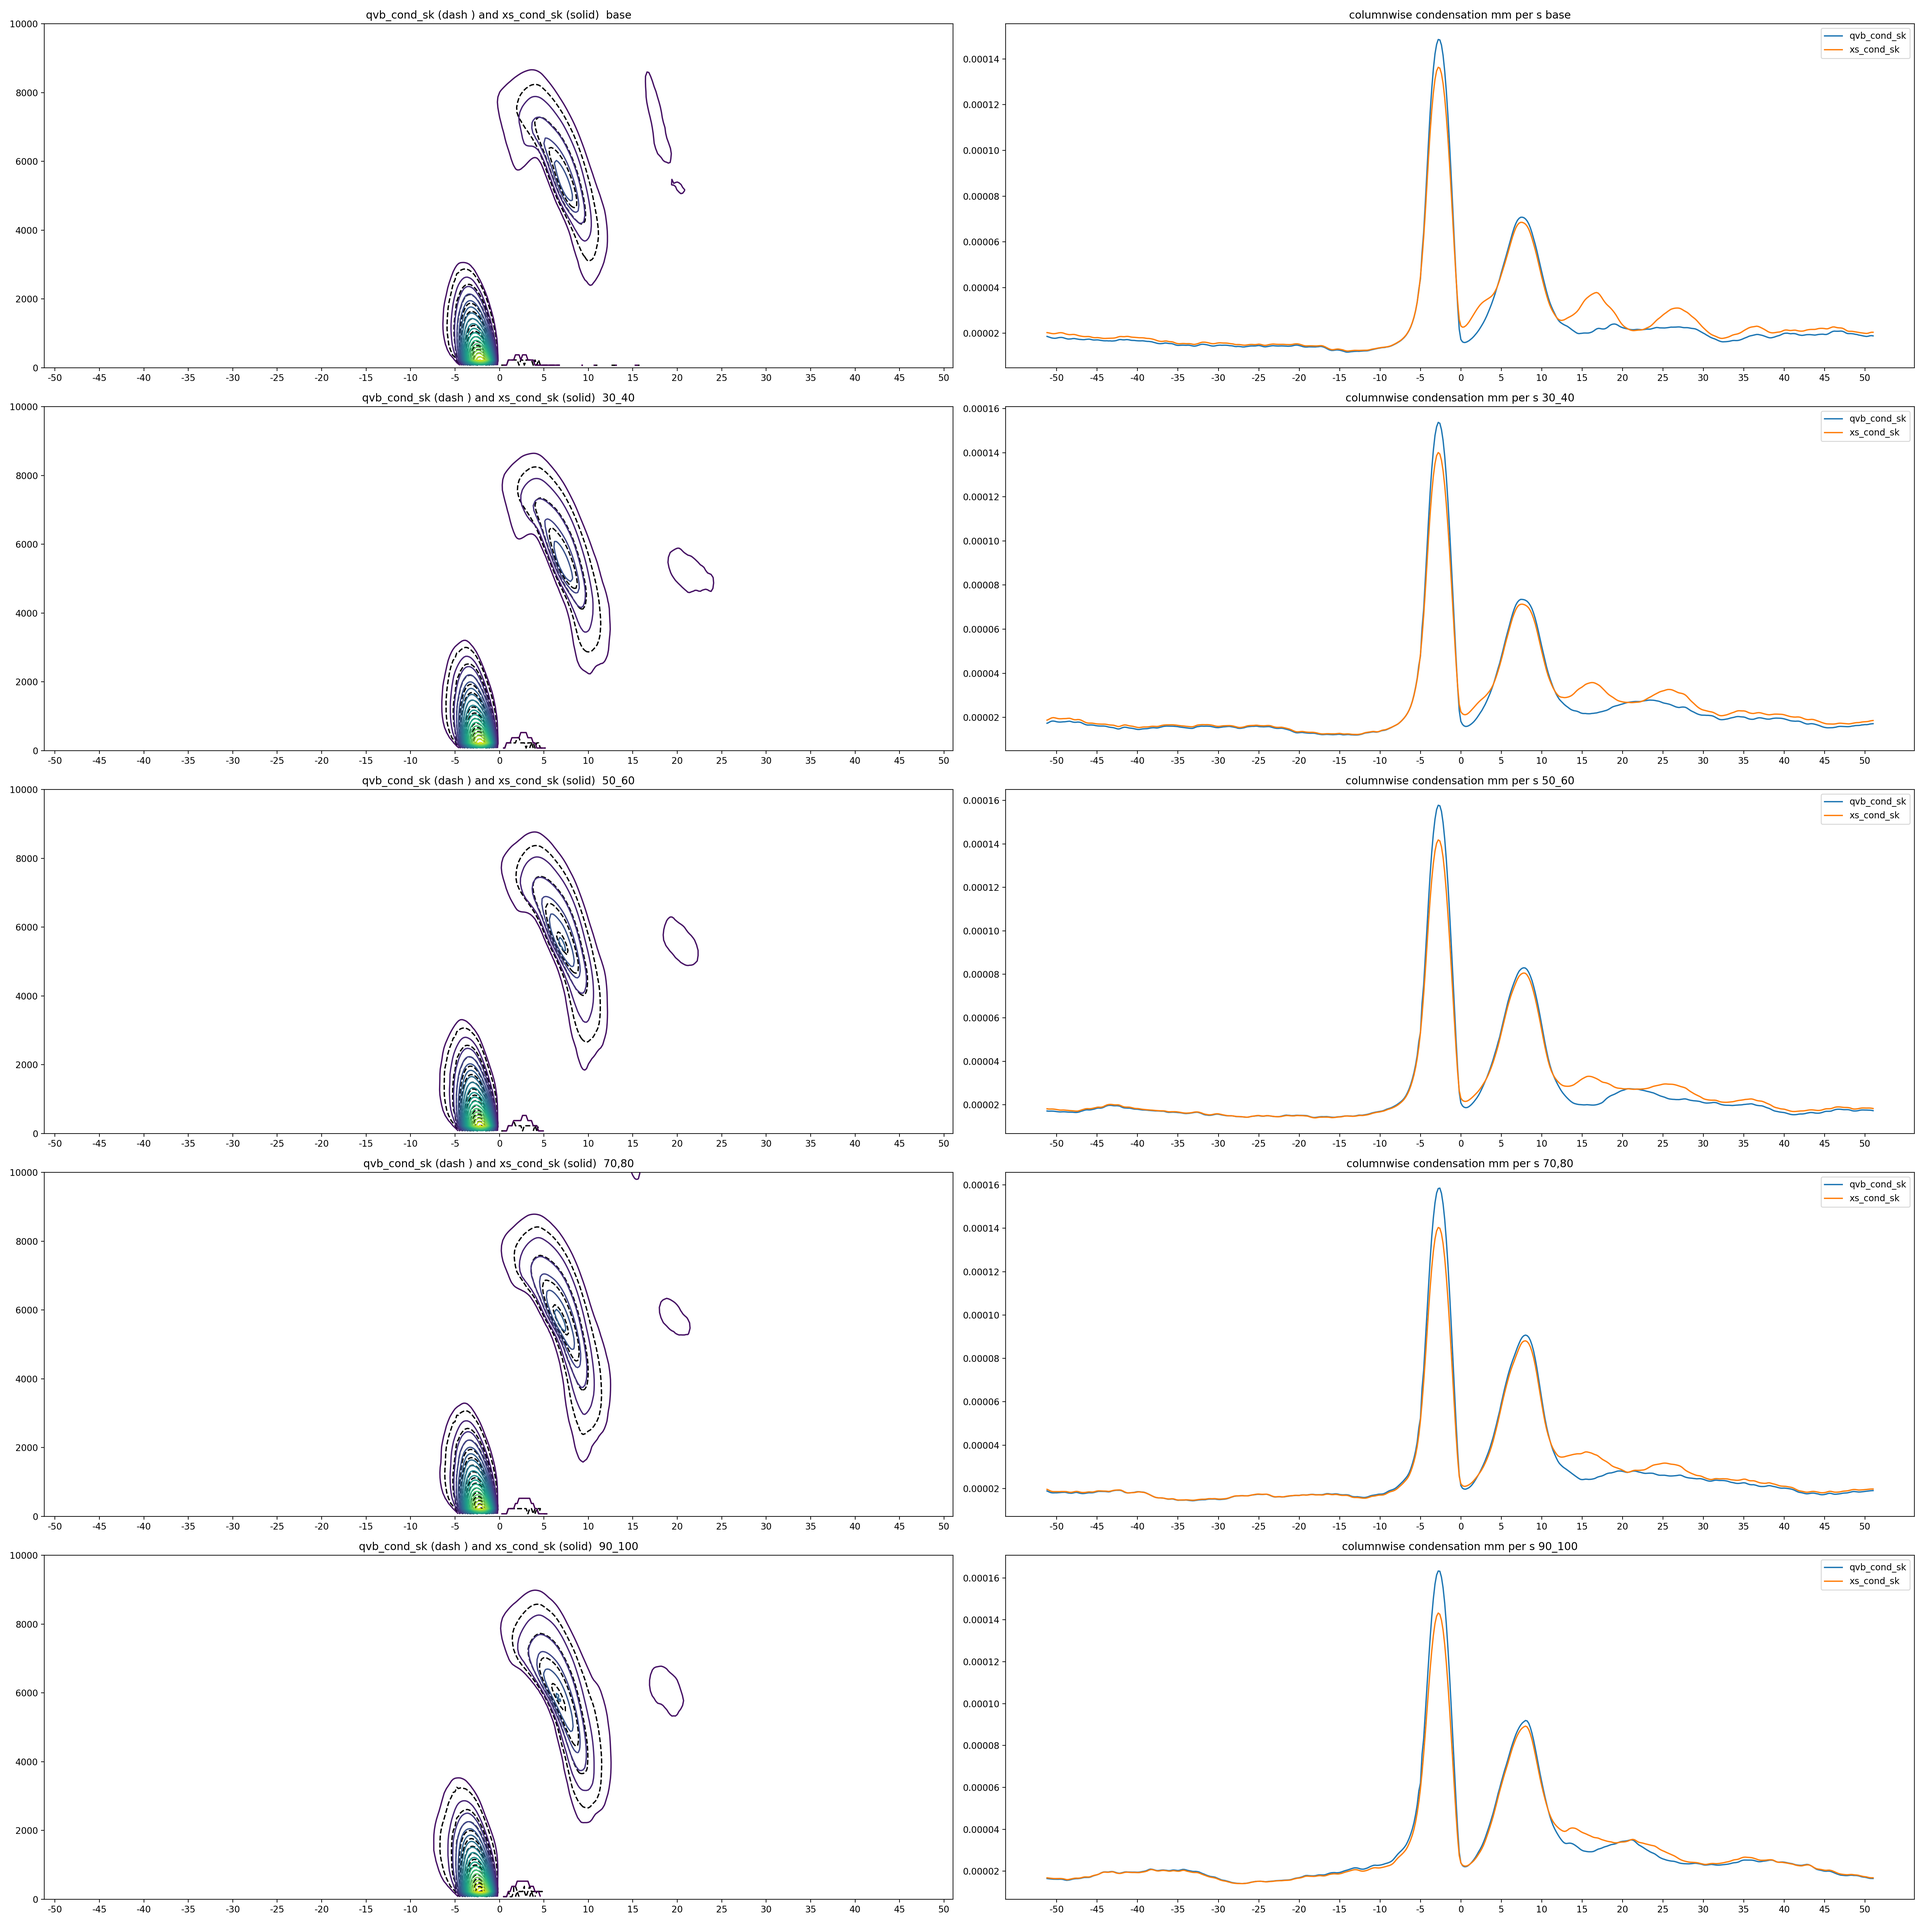
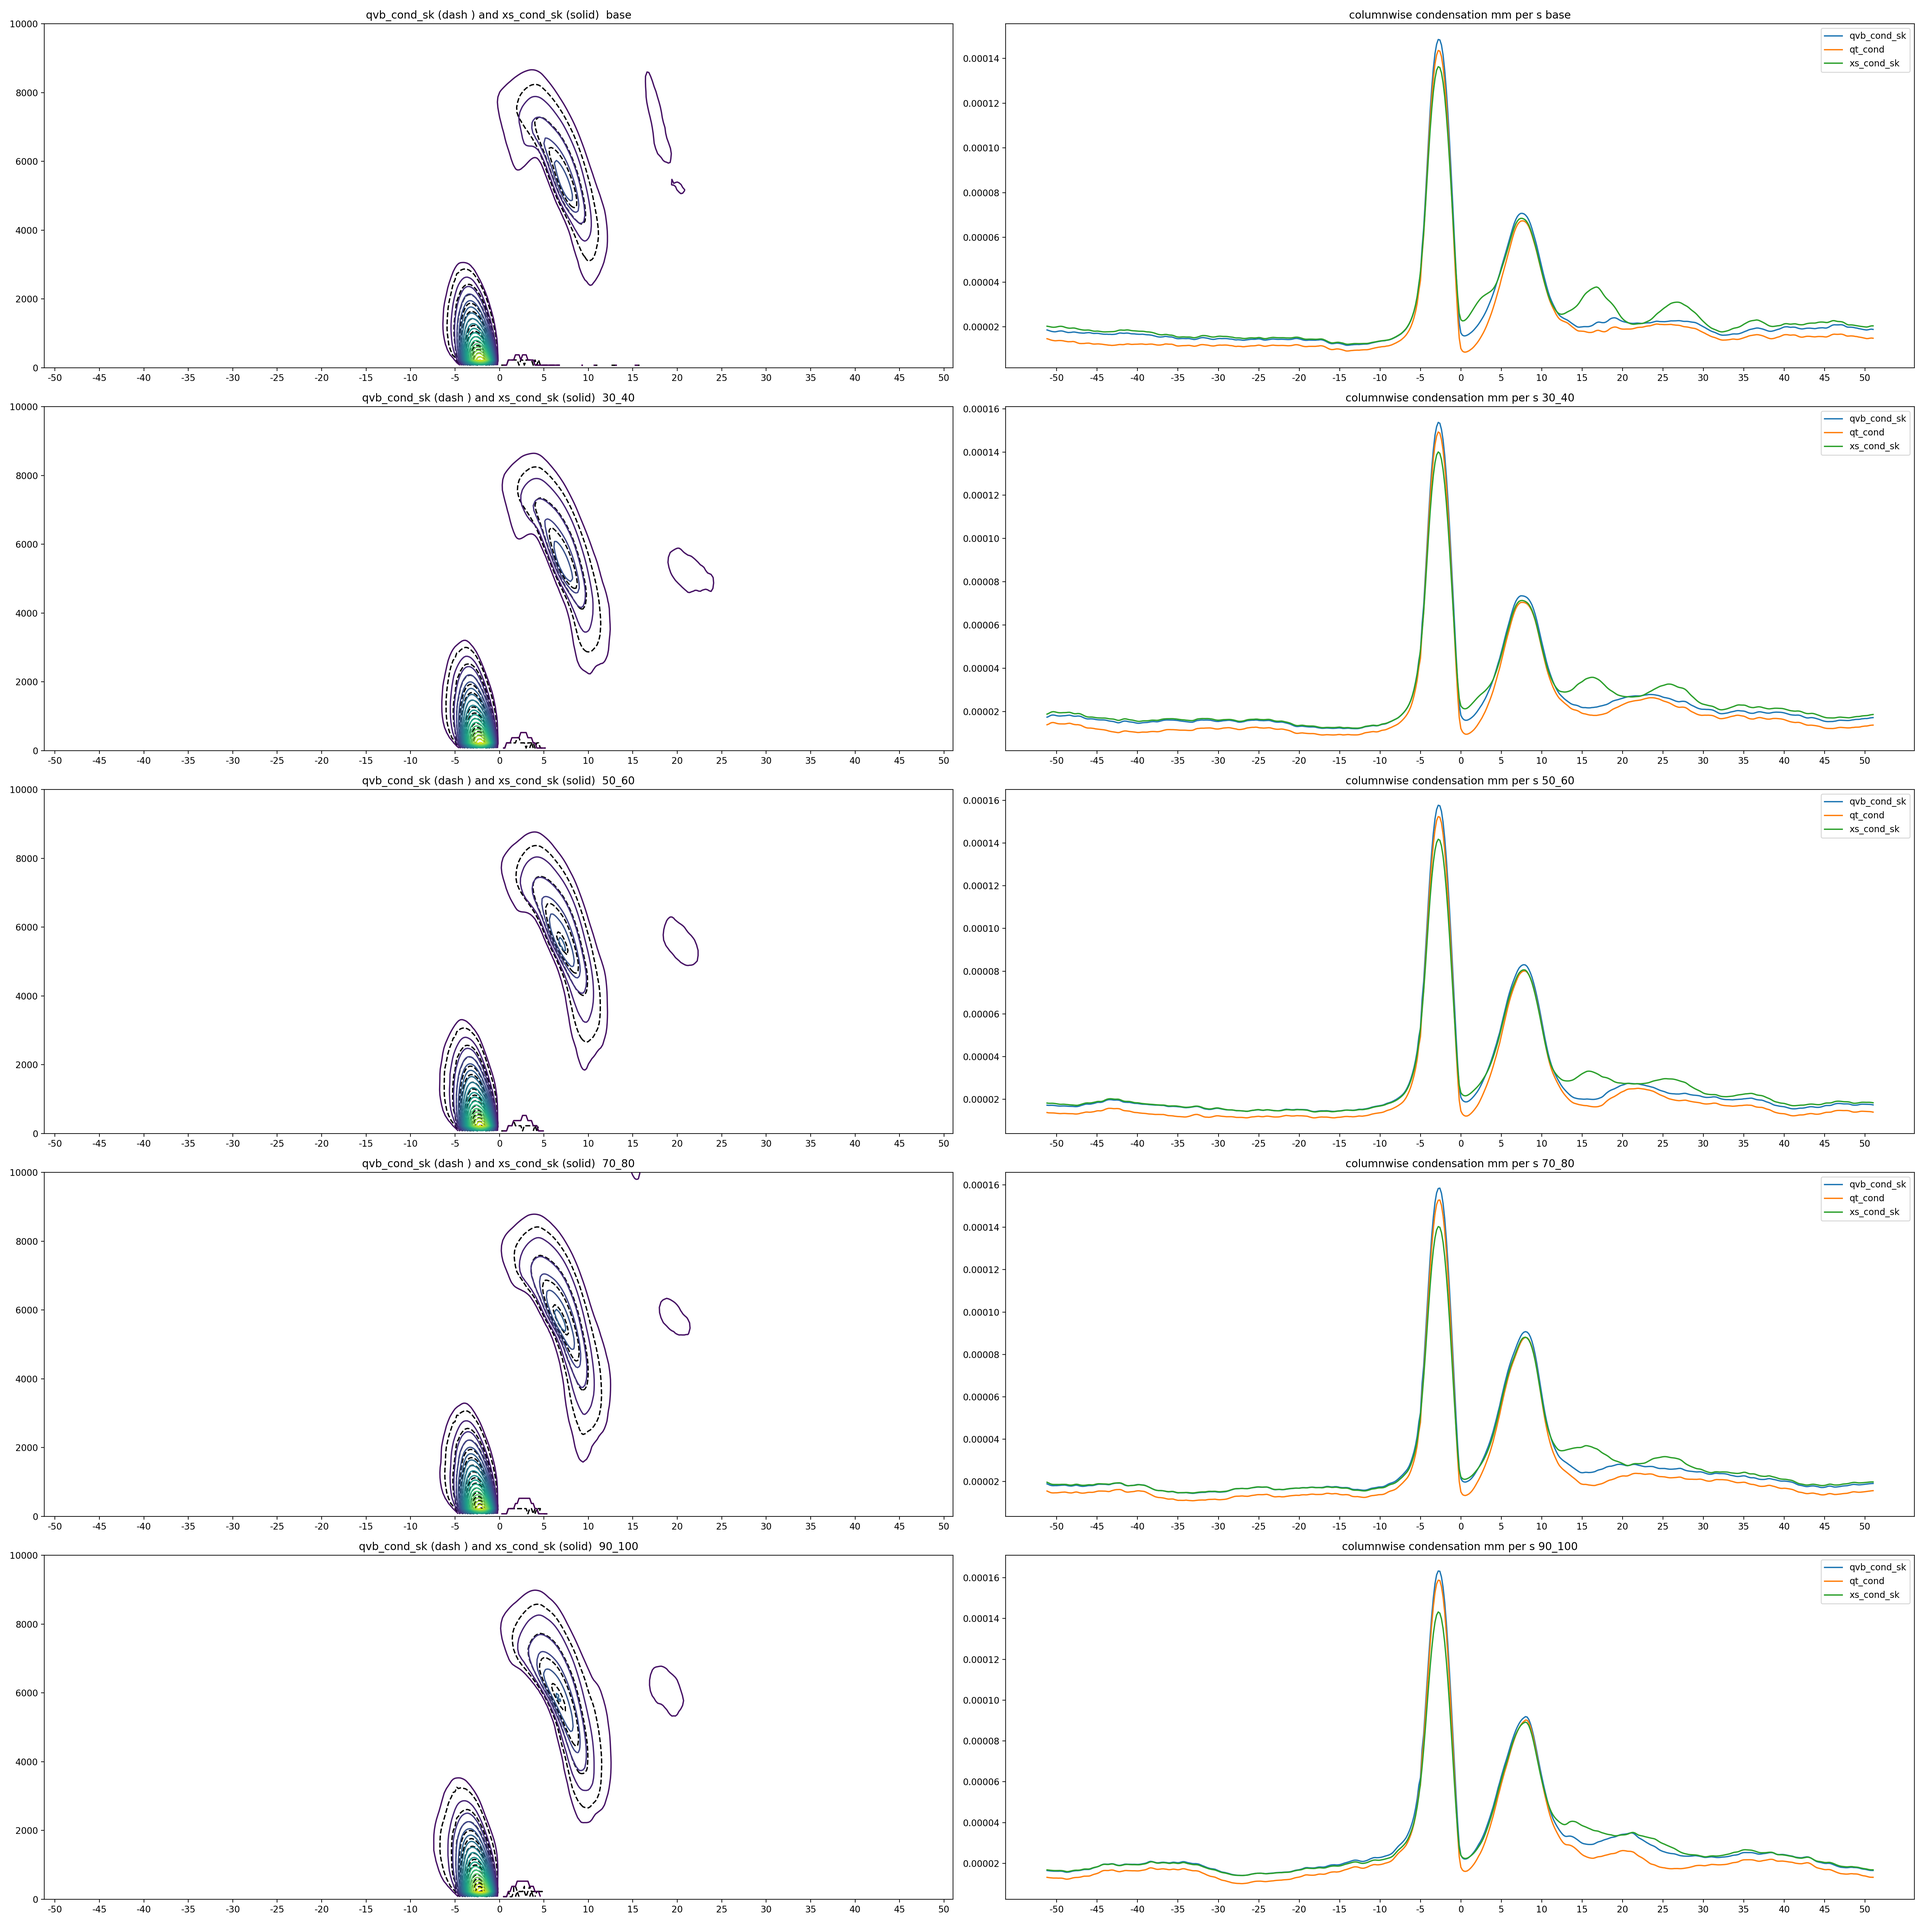
add qt_analysis

diff --git a/qt_plots.md b/qt_plots.md
@@ -1,0 +1,86 @@
+
+
+## Previous mistakes
+
+In the figure below:
+The right column is the figure I often show to you. The condensation rate in the y (cross mountain) direction. The left column shows two contours. 
+1. qvb_cond_sk means qvb_cond filtered by sk (dash). 
+2. xs_cond_sk means xs_cond filtered by sk (solid). 
+
+I made mistakes here, the qvb_cond doesn't need to be fitered by the w when we apply sk to the condensation rate. The difference between the left column and right column is due to the way I deal with the positiev qvb_mp values( evaporation )
+
+1. in the left column, I use 'nan' to replace positive qvb_mp values, then apply nanmean 
+2. in the right column, I use '0' to replace positive qvb_mp values, then apply nanmean
+
+In the left column: replace evporation values with 'nan' is alsolutely wrong.
+
+![test](https://github.com/JiananChenUST/random_pic_years/blob/main/qvb_xs_cond_detail.png)
+
+
+To better explain the reason why nanmean is wrong, the figure below instead of the time mean, the snapshot is provioded.
+
+* In the left column, We can see large condensation areas besides the two known maxima. The large value can be caused by less number to average in x direction (neglect nan).
+
+![test](https://github.com/JiananChenUST/random_pic_years/blob/main/qvb_xs_cond_detail.png)
+
+
+
+## Qt tendencies
+
+### the unit of below contour plots is mm per second
+### qt_cond
+![test](https://github.com/JiananChenUST/random_pic_years/blob/main/qt_cond_no_weighted.png)
+
+### qt_dep
+![test](https://github.com/JiananChenUST/random_pic_years/blob/main/qt_dep_no_weighted.png)
+
+### qt_evar
+![test](https://github.com/JiananChenUST/random_pic_years/blob/main/qt_evar_no_weighted.png)
+
+### qt_evac
+![test](https://github.com/JiananChenUST/random_pic_years/blob/main/qt_evac_no_weighted.png)
+
+### qt_sub
+![test](https://github.com/JiananChenUST/random_pic_years/blob/main/qt_sub_no_weighted.png)
+
+### qt_evar and qt_evac
+![test](https://github.com/JiananChenUST/random_pic_years/blob/main/qt_evar_evac_no_weighted.png)
+
+### qt_subl and qt_dep 
+![test](https://github.com/JiananChenUST/random_pic_years/blob/main/qt_subl_dep_no_weighted.png)
+
+## simple qt analysis
+
+### vertical integration of qt
+
+![test](https://github.com/JiananChenUST/random_pic_years/blob/main/qt_2d_analysis.png)
+
+
+## different condensation rate analysis
+1. cond rate from qvb_mp
+2. cond rate from qt
+3. cond rate from XS equations qci thershold=10 e -6
+4. cond rate from XS equations qci threshold=10 e -6
+
+### Different cond rate types in the same warming scenario
+
+![test](https://github.com/JiananChenUST/random_pic_years/blob/main/cond_compare1.png)
+
+#### different warming scenarios for the same cond rate type
+
+![test](https://github.com/JiananChenUST/random_pic_years/blob/main/cond_compare2.png)
+
+#### condensation change not normalize by temperature
+
+![test](https://github.com/JiananChenUST/random_pic_years/blob/main/cond_increasement_compare.png)
+
+#### condensation change normalize by temperature
+
+![test](https://github.com/JiananChenUST/random_pic_years/blob/main/cond_increasement_compare_normalize.png)
+
+## The difficulties in defining the area used to calculate the Precipitation efficiency
+
+not clear how to connect the PE with rain rate. 
+
+![test](https://github.com/JiananChenUST/random_pic_years/blob/main/how_to_select_pe_region.png)
+
